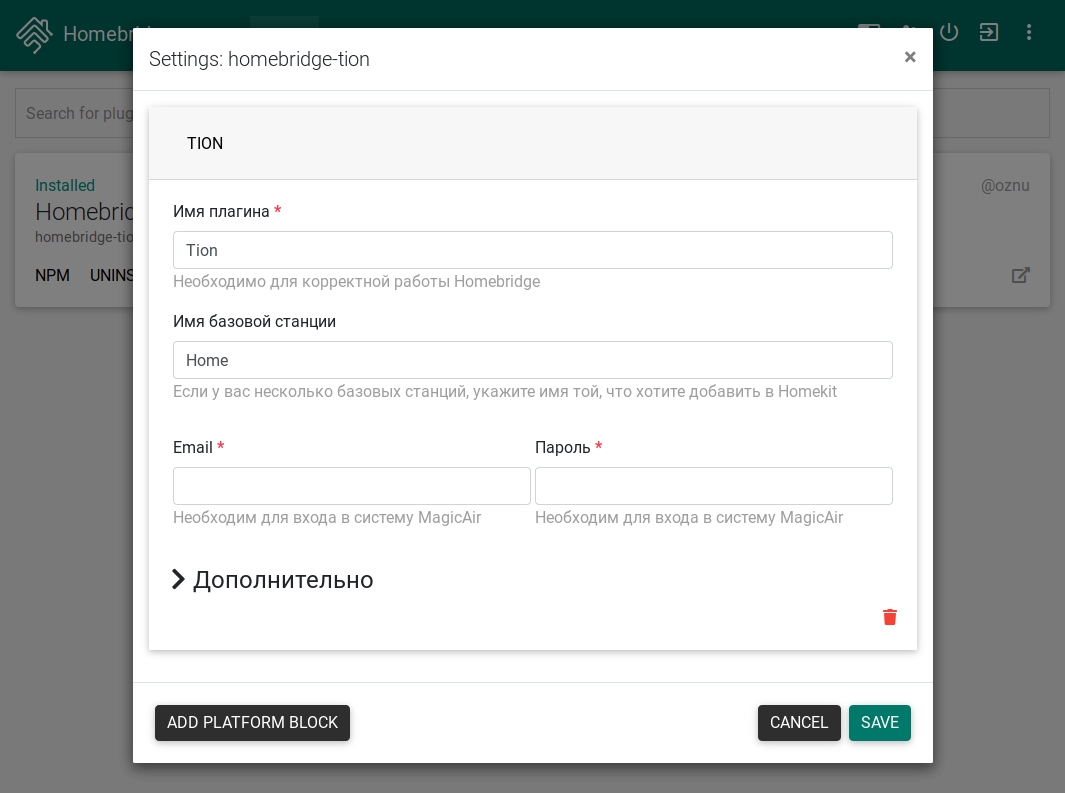
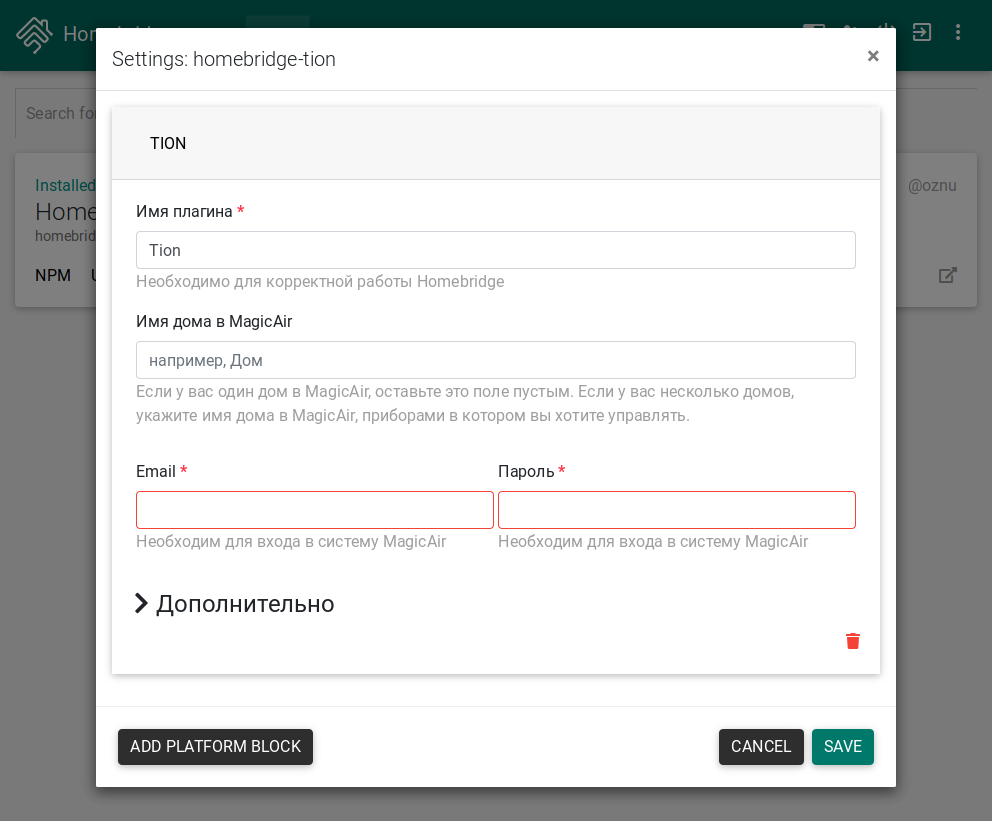
Config and documentation improvements

diff --git a/src/platform_config.ts b/src/platform_config.ts
@@ -5,12 +5,11 @@ export const PlatformName = 'Tion';
 
 export interface ITionPlatformConfig extends IHomebridgePlatformConfig {
     name: string;
-    stationName: string;
+    stationName?: string; // deprecated since 1.0.4
+    homeName: string;
     userName: string;
     password: string;
     co2Threshold: number;
-
-    [key: string]: number | string;
 }
 
 export function validate(log: ILog, config: ITionPlatformConfig): boolean {
@@ -27,9 +26,16 @@ export function sanitize(log: ILog, config: ITionPlatformConfig): ITionPlatformC
         log.warn(`config.name has incompatible value, setting "Tion"`);
         Object.assign(config, {name: 'Tion'});
     }
-    if ('stationName' in config && typeof config.stationName !== 'string') {
-        log.warn(`config.stationName has incompatible value, removing`);
+    if (config.stationName) {
+        if (!config.homeName) {
+            config.homeName = config.stationName;
+        }
+
         delete config.stationName;
+    }
+    if ('homeName' in config && typeof config.homeName !== 'string') {
+        log.warn(`config.homeName has incompatible value, removing`);
+        delete config.homeName;
     }
     if ('userName' in config && typeof config.userName !== 'string') {
         log.warn(`config.userName has incompatible value, removing`);

diff --git a/src/tion/api.ts b/src/tion/api.ts
@@ -27,7 +27,7 @@ export class TionApi implements ITionApi {
     private readonly authApi: ITionAuthApi;
     private readonly config: ITionPlatformConfig;
 
-    private stateRequest: Promise<ILocation[]> | null;
+    private stateRequest?: Promise<ILocation[]> | null;
 
     constructor(log: ILog, config: ITionPlatformConfig, authApi: ITionAuthApi) {
         this.log = log;
@@ -52,13 +52,13 @@ export class TionApi implements ITionApi {
         if (firstRequest) {
             this.stateRequest = null;
         }
-        if (this.config.stationName) {
-            const lower = this.config.stationName.toLowerCase();
+        if (this.config.homeName) {
+            const lower = this.config.homeName.toLowerCase();
             const location = ret.find(loc => loc.name.toLowerCase() === lower);
             if (location) {
                 return location;
             } else {
-                this.log.warn(`Location ${this.config.stationName} not found`);
+                this.log.warn(`Location ${this.config.homeName} not found, using first appropriate`);
             }
         }
         return ret.find(loc => loc.zones.length) || ret[0];

diff --git a/test/config.test.ts b/test/config.test.ts
@@ -7,6 +7,13 @@ describe('Test Platform Config', () => {
         const config = new MockPlatformConfig();
 
         expect(validate(MockLog, config)).toBeTruthy();
+        expect(sanitize(MockLog, config)).toEqual({
+            name: 'Tion',
+            homeName: 'Home',
+            userName: 'test',
+            password: 'test',
+            co2Threshold: 799
+,         });
     });
 
     test('Invalid config should not pass validation', () => {
@@ -20,7 +27,7 @@ describe('Test Platform Config', () => {
         const config = new MockPlatformConfig();
         Object.assign(config, {
             name: 123,
-            stationName: 123,
+            homeName: 123,
             userName: 123,
             password: 123,
             co2Threshold: -100

diff --git a/test/mocks.ts b/test/mocks.ts
@@ -26,12 +26,12 @@ export class MockTionAuthStorage implements ITionAuthStorage {
 
 export class MockPlatformConfig implements ITionPlatformConfig {
      name: string;
-     stationName: string;
+     homeName: string;
+     stationName?: string;
      co2Threshold: number;
      userName: string;
      password: string;
-     
-     [key: string]: string | number;
+
      constructor() {
           this.stationName = 'Home';
           this.userName = 'test';

diff --git a/src/tion/devices/breezer.ts b/src/tion/devices/breezer.ts
@@ -18,7 +18,7 @@ export class TionBreezer extends TionDeviceBase {
     public filterChangeIndication: boolean;
     public filterLifeLevel: number;
 
-    public airIntake: number | undefined;
+    public airIntake?: number;
 
     private readonly maxSpeed: number;
     private readonly maxTargetTemperature: number;

diff --git a/README.md b/README.md
@@ -51,9 +51,9 @@
         {
             "platform": "Tion",
             "name": "Tion",
-            "stationName": ИМЯ_БАЗОВОЙ_СТАНЦИИ,
-            "userName": ИМЯ_ПОЛЬЗОВАТЕЛЯ_В_MAGICAIR,
-            "password": ПАРОЛЬ_В_MAGICAIR
+            "homeName": ИМЯ_ДОМА_В_MAGICAIR_В_ДВОЙНЫХ_КАВЫЧКАХ,
+            "userName": ИМЯ_ПОЛЬЗОВАТЕЛЯ_В_MAGICAIR_В_ДВОЙНЫХ_КАВЫЧКАХ,
+            "password": ПАРОЛЬ_В_MAGICAIR_В_ДВОЙНЫХ_КАВЫЧКАХ
         }
     ]
     ```
@@ -67,7 +67,7 @@
 | Поле | Тип | Описание | Обязательно поле | Значение по-умолчанию |
 |--------|------|-------------|----------|---------------|
 | `name` | `string` | Имя плагина в Homebridge | Да | `Tion` |
-| `stationName` | `string` | Если у вас одна базовая станция, оставьте это поле пустым. Если у вас несколько базовых станций, укажите имя _дома_ в MagicAir, где установлена станция | Нет |  |
+| `homeName` | `string` | Имя дома в MagicAir. Если у вас один дом в MagicAir, оставьте это поле пустым. Если у вас несколько домов, укажите имя дома в MagicAir, приборами в котором вы хотите управлять. | Нет |  |
 | `userName` | `string` | Имя пользователя в MagicAir | Да |  |
 | `password` | `string` | Пароль в MagicAir | Да |  |
 | `co2Threshold` | `number` | Уровень CO2, выше которого будет сигнализировать датчик CO2 в Homekit | Нет | `800` |
